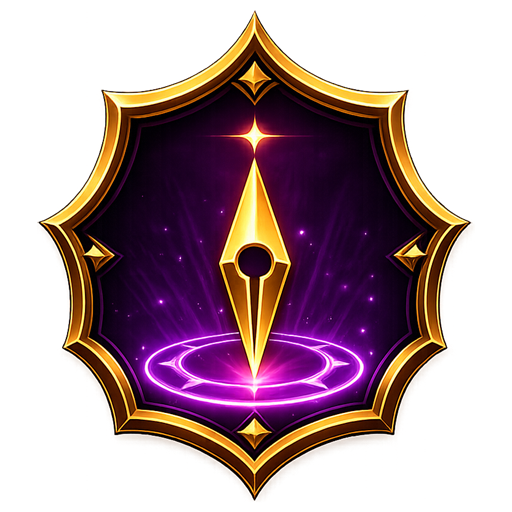
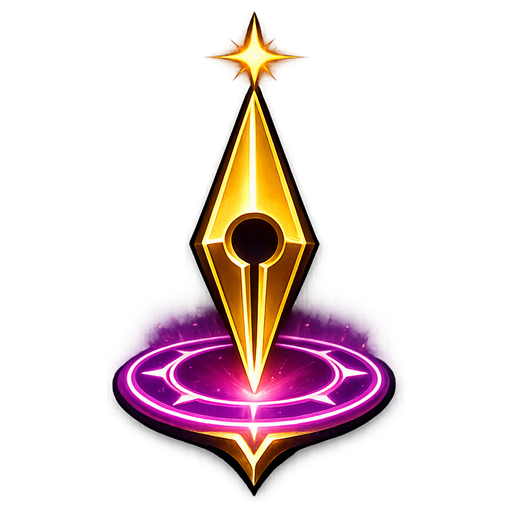
feat: simplify the minimap emblem so it reads at button size
The framed badge spent its area on a frame and a dark interior, leaving the
needle and the ring, the part that carries the meaning, about fifteen pixels of
a thirty-eight pixel button. On a dark map that is a smudge, not a shape.

The minimap version is now the needle, the ring and the spark alone, on
transparency, filling the button's height. Checked at the size it is actually
drawn: legible at 38, clearly better at 44, and it survives the greyed-out state
the button uses while the automation is off, which was the case I expected to
fail. The dark rim around the shapes is what holds it together there.

Default button size raised from 38 to 44 to suit it. Only new installations get
that; an existing setting is somebody's choice and is not overwritten.

The artwork arrived on a 1536 by 1024 canvas with the motif 510 by 840 in the
middle. prepare-icons.ps1 found it by its alpha channel, squared it and scaled
it, so nothing had to be done by hand.

diff --git a/src/FateHelper.Core/Configuration/FateHelperSettings.cs b/src/FateHelper.Core/Configuration/FateHelperSettings.cs
@@ -81,7 +81,7 @@ public sealed class FateHelperSettings
     /// and then read back out of the saved configuration, so a fresh install starts where the
     /// tuning ended rather than where the first estimate was.
     /// </remarks>
-    public float MinimapButtonSize { get; set; } = 38f;
+    public float MinimapButtonSize { get; set; } = 44f;
 
     // --- Engage sequence -------------------------------------------------------------
 
